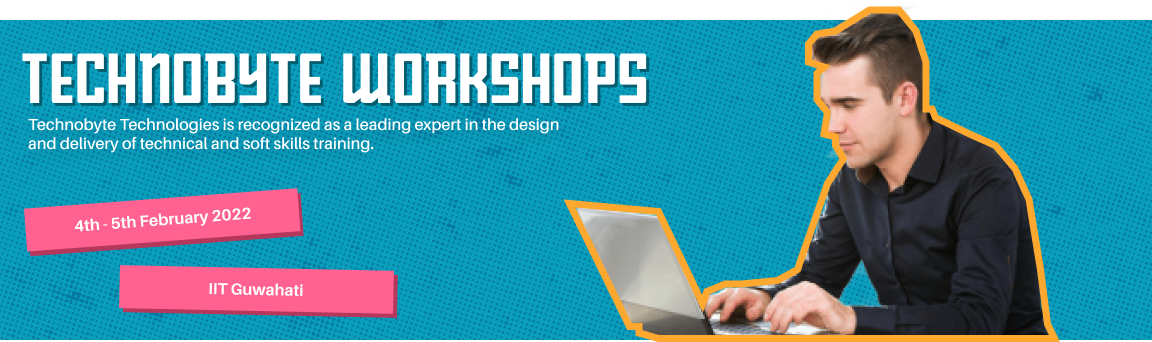
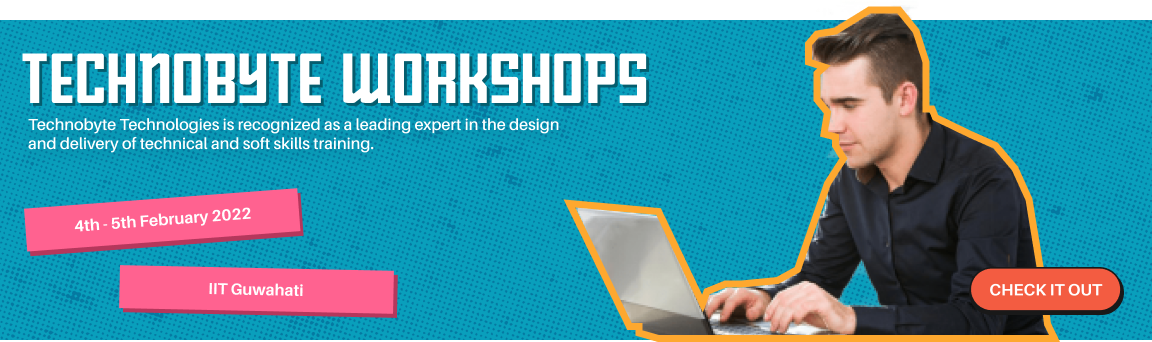
events/hf chnges

Changed region(s): [[0.8438, 0.7602, 1.0, 0.9357]]

diff --git a/src/Components/Events/Eventshf.js b/src/Components/Events/Eventshf.js
@@ -41,9 +41,9 @@ function Events1() {
             <a href="https://techobytes.com/" target={'_blank'} style={{'cursor':'default'}}>
           <div className="event_card">
             <img src={technobyte} alt="" />
-            <Link className="event_button image" to="/BookTickets">
+            {/* <Link className="event_button image" to="/BookTickets">
               <EventsBook />
-            </Link>
+            </Link> */}
           </div>
             </a>
         </div>
@@ -66,24 +66,26 @@ function Events1() {
       </div>
       <div className="main_event_mob">
         <div className="content_event">
+        <a href="https://techobytes.com/" target={'_blank'} style={{'cursor':'default'}}>
           <div className="event_card">
             <img src={technobyte_mob} alt="" />
+            {/* <Link className="event_button image" to="/BookTickets">
+              <EventsBook />
+            </Link> */}
+          </div>
+          </a>
+          {/* <div className="event_card">
+            <img src={BangerMob} alt="" />
             <Link className="event_button image" to="/BookTickets">
               <EventsBook />
             </Link>
-          </div>
-          <div className="event_card">
-            <img src={BangerMob} alt="" />
-            <Link className="event_button image" to="/BookTickets">
-              <EventsBook />
-            </Link>
-          </div>
-          <div className="event_card">
+          </div> */}
+          {/* <div className="event_card">
             <img src={BangerMob} alt="" />
           </div>
           <div className="event_card">
             <img src={BangerMob} alt="" />
-          </div>
+          </div> */}
         </div>
         <div className="upnav">
           <div className="sidebar11">
